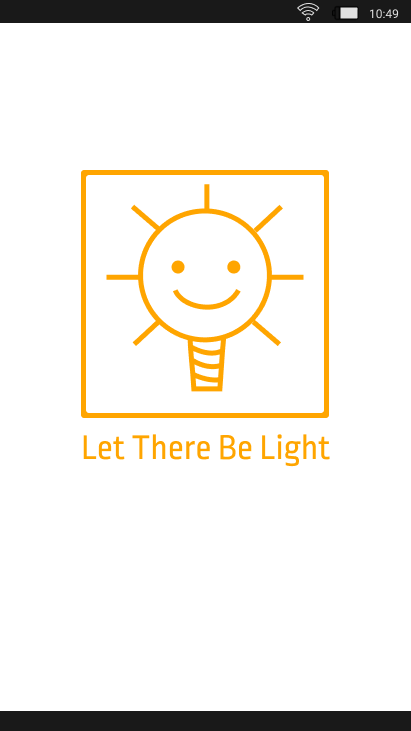
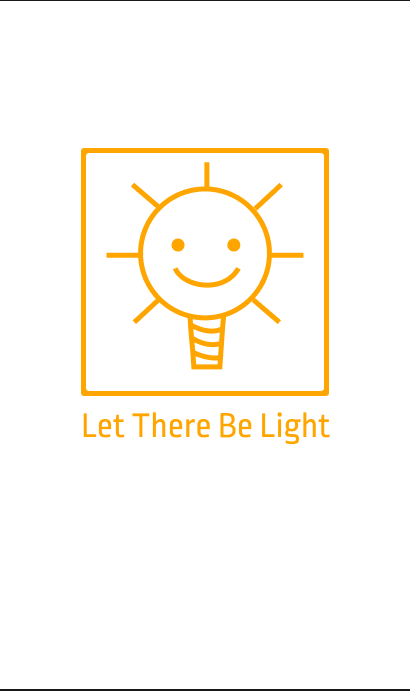
twenty two stage

diff --git a/public/css/style.css b/public/css/style.css
@@ -68,6 +68,9 @@ hr{
 .white{
 	background:white !important;
 }
+.grey{
+	background:grey;
+}
 .parent_bar{
 	height:4rem;
 	background:#eee;
@@ -98,7 +101,9 @@ hr{
 .don-category{
 	height:2rem;
 	width:100%;
-	background:#eee;
+	background:orange;
+	text-align: center;
+	color:white;
 	padding-left:2vw;
 }
 .orange-text{
@@ -122,7 +127,6 @@ hr{
 }
 .post{
 	width:100%;
-	background-color: #f9f9f9;
 	padding-top: 1vh;
 	padding-bottom: 1vh;
 }
@@ -146,6 +150,9 @@ hr{
 }
 .w-65{
 	width:65% !important;
+}
+.w-40{
+	width:40% !important;
 }
 .w-10{
 	width:10% !important;
@@ -224,6 +231,7 @@ hr{
 	height:30vh;
 	width: 100%;
 	margin: 0;
+	translate:0.5s;
 }
 .by-author {
 	font-style: italic;
@@ -233,7 +241,6 @@ hr{
 .featured-article {
 	width:100%;
 	position: relative;
-	margin-bottom: 1em;
 }
 
 .featured-article .block-title {

diff --git a/resources/views/profile.blade.php b/resources/views/profile.blade.php
@@ -21,14 +21,14 @@
 <div class="row no-gutters prof-main white">
     @guest
         <ul class="navbar-nav mx-auto mb-5">
-            <img src="/images/Крутая версия/Untitled.png" alt="" class="w-24 rounded my-4" style="margin:0 auto">
-            <h4 class="mb-5">You not autorizated.</h4>
+            <img src="/images/Крутая версия/direction-sign (1).png" alt="" class="w-40 rounded my-4 mb-5" style="margin:0 auto">
+            <h4 class="mb-3 mt-3" style="width:80%;margin-left:10%">You not autorizated. Please, log in or register.</h4>
           <li class="nav-item elem-center">
-                <a class="nav-link" href="{{ route('register') }}"><button class="btn btn-wide darkgrey-text little-bold" style="background-color: lightgrey" type="button">{{ __('Register') }}</button></a>
+                <a class="nav-link" href="{{ route('register') }}"><button class="btn orange btn-wide darkgrey-text little-bold" style="background-color: lightgrey;font-weight: 500" type="button">{{ __('Register') }}</button></a>
             </li>
             <hr class="elem-center my-2 w-74" style="border-top-width: 1.5rem;">
           <li class="nav-item elem-center">
-                <a class="nav-link" href="{{ route('login') }}"><button class="btn btn-wide w-100 darkgrey-text little-bold" style="background-color: lightgrey;" type="button">{{ __('Login') }}
+                <a class="nav-link" href="{{ route('login') }}"><button class="btn orange btn-wide w-100 darkgrey-text little-bold" style="background-color: lightgrey;font-weight: 500" type="button">{{ __('Login') }}
                 </button></a>
           </li>
         </ul>
@@ -66,7 +66,7 @@
     </div>
 @endsection
 @section('home')
-<a class="nav-link" href="/home" style="margin:0 auto;text-align: center"><img src="/images/Untitled (5).png" class="photo" alt="Home"></a>
+<a class="nav-link" href="/post/1" style="margin:0 auto;text-align: center"><img src="/images/Untitled (5).png" class="photo" alt="Home"></a>
 @endsection
 @section('profile')
 <a class="nav-link" href="/profile" style="margin:0 auto;text-align: center"><img src="/images/profile.png" class="photo" alt="Profile" style="width:3.5rem;margin-top:0.25rem"></a>

diff --git a/resources/views/post.blade.php b/resources/views/post.blade.php
@@ -1,6 +1,6 @@
 @extends('layout.app')
 @section('home')
-<a class="nav-link" href="/home" style="margin:0 auto;text-align: center"><img src="/images/Untitled (4).png" class="photo" alt="Home"></a>
+<a class="nav-link" href="/post/1" style="margin:0 auto;text-align: center"><img src="/images/Untitled (4).png" class="photo" alt="Home"></a>
 @endsection
 @section('profile')
 <a class="nav-link" href="/profile" style="margin:0 auto;text-align: center"><img src="/images/profile (3).png" class="photo" alt="Profile" style="width:3.5rem;margin-top:0.25rem"></a>
@@ -9,10 +9,28 @@
 <a class="nav-link" href="/stats" style="margin:0 auto;text-align: center"><img src="/images/earth (2).png" class="photo" alt="Profile" style="width:3.5rem;margin-top:0.25rem"></a>
 @endsection
 @section('content')
+<nav class="navbar navbar-expand navbar-light mb-3" style="background:white;height:3rem;">
+    <div class="navbar-collapse collapse w-100 order-1 order-md-0 dual-collapse2">
+        <ul class="navbar-nav mr-auto">
+            <li class="nav-item active">
+                <a class="nav-link" href="#">
+                  <img src="/images/settings (1).png" alt="">
+                </a>
+            </li>
+        </ul>
+    </div>
+    <div class="mx-auto order-2">
+        <a class="navbar-brand mx-auto orange-text" style="font-weight: 450 !important;font-size:3.3vh" href="#">My Profile</a>
+    </div>
+    <div class="navbar-collapse collapse w-100 order-3 dual-collapse2">
+        <ul class="navbar-nav ml-auto">
+        </ul>
+    </div>
+</nav>
 	<div class="mt-2 secret-photo w-100 row no-gutters">
 		<div class="col-1 no-white secret"></div>
 	</div>
-	<h5 class="description text-center p-1 mt-2">{{$post->name}}</h5>
+	<h5 class="description text-center p-1 mt-2">{{$post->name}} village</h5>
 	<div class="progress">
 	  <div class="progress-bar" role="progressbar" aria-valuenow="70"
 	  aria-valuemin="0" aria-valuemax="100" style="width:{{$post->paid/($post->amount/100)}}%">

diff --git a/resources/views/home.blade.php b/resources/views/home.blade.php
@@ -31,20 +31,26 @@
   </a>
 </div>
 <div class="w-100" category="active">
-  <div class="don-category mt-2">
-    <h5>Сбор средств</h5>
+  <div class="don-category mt-2 ">
+    <h4>Fundraising villages</h4>
   </div>
   @foreach($posts as $post)
-    <div class="post">
+    <div class="post white mt-2">
         <div class="featured-article">
           <a href="/post/{{$post->id}}" class="photo">
             <img src="/{{$post->image}}" alt="" class="thumb">
           </a>
-          <div class="block-title">
-            <h6 class="orange-text" style="font-weight: 800;font-size:1.2rem">[Village] - {{$post->name}}</h6>
-            <h6 class="float-right">{{$post->name}}</h6>
-          </div>
         </div>
+          <div class="block-title">
+            <h6 class="orange-text p-2 rounded" style="font-size:1.2rem;text-align: center;background-color:#eee;border-radius: 1.3rem">{{$post->name}} village</h6>
+          </div>
+          <div class="progress">
+            <div class="progress-bar" role="progressbar" aria-valuenow="70"
+            aria-valuemin="0" aria-valuemax="100" style="width:{{$post->paid/($post->amount/100)}}%">
+              
+            </div>
+            <h6 style="position:absolute;left:45%">{{$post->paid/($post->amount/100)}}%</h6>
+          </div>
     </div>
   @endforeach
 </div>

diff --git a/resources/views/stats.blade.php b/resources/views/stats.blade.php
@@ -18,8 +18,8 @@
         </ul>
     </div>
 </nav>
-<div class="w-100 py-3 mt-3 white">
-	<img src="/images/earth-png-1600 (1).png" class="stats-earth" alt="">
+<div class="w-100 py-2 mt-3 white">
+	<img src="/images/Крутая версия/earth (2).png" class="w-100" alt="">
 </div>
 <div class="container mt-2">
 	<div class="row white no-gutters col-relax col-inrelax p-2 mt-2">
@@ -36,7 +36,7 @@
 		<div class="col-6">
 			<p class="low-bold">Mongolian Village</p>
 			<hr class="my-1" style="width:95%;">
-			<p class="grey-text little-bold">In process</p>
+			<p class="grey-text little-bold"></p>
 		</div>
 		<div class="col-6">
 			<button type="button" class="btn orange w-100 white-text" style="position: absolute;bottom: 0;">More details</button>
@@ -55,7 +55,7 @@
 </div>
 @endsection
 @section('home')
-<a class="nav-link" href="/home" style="margin:0 auto;text-align: center"><img src="/images/Untitled (5).png" class="photo" alt="Home"></a>
+<a class="nav-link" href="/post/1" style="margin:0 auto;text-align: center"><img src="/images/Untitled (5).png" class="photo" alt="Home"></a>
 @endsection
 @section('profile')
 <a class="nav-link" href="/profile" style="margin:0 auto;text-align: center"><img src="/images/profile (3).png" class="photo" alt="Profile" style="width:3.5rem;margin-top:0.25rem"></a>

diff --git a/resources/views/splash_screen.blade.php b/resources/views/splash_screen.blade.php
@@ -9,19 +9,19 @@
     <script type="text/javascript">
             $('#splash').ready() 
             {
-                $('#main').load('/home');
+                $('#main').load('/post/1');
                 setTimeout(function() {
                     $('#main').ready(function() {
                         $('#splash').remove();
-                        window.location.href = "/home";
+                        window.location.href = "/post/1";
                     });
                 }, 1000);
             }
     </script>
 </head>
 <body>
-    <div id="splash" style="position: absolute; top: 0px; bottom: 0px; left: 0px; right: 0px; z-index: 10;">
-        <img src="/images/Untitled.png" alt="" class="w-75 sml-12">
+    <div id="splash" style="position: absolute;width:100%;height:100%; top: 0px; bottom: 0px; left: 0px; right: 0px; z-index: 10;background-image: url('/images/Крутая версия/input.png')">
+        
     </div>
     <div id="sp_main">
 

diff --git a/database/seeds/PostsTableSeeder.php b/database/seeds/PostsTableSeeder.php
@@ -13,12 +13,12 @@ class PostsTableSeeder extends Seeder
     public function run()
     {
     	Post::create([
-    		"name" => "mongolia",
-    		"content" => "Lorem ipsum dolor sit amet, consectetur adipisicing elit. Atque praesentium, laudantium aspernatur quos doloremque optio distinctio, veniam voluptatum ipsa molestiae quidem aut doloribus animi. Explicabo obcaecati quisquam nobis earum porro?",
-    		"amount" => 50000,
-    		"paid" => 31000,
+    		"name" => "Mongolia",
+    		"content" => "Mongolia is a country in East Asia. It is bordered by Russia to the North and china to the East, South and West. It is one of the largest landlocked countries in the world",
+    		"amount" => 800,
+    		"paid" => 687.16,
     		"image" => "images/volunteering-in-mongolia.1200.jpg",
-    		"donaters" => 13000,
+    		"donaters" => 14263,
     		"finale" => 0,
     	]);
     }
